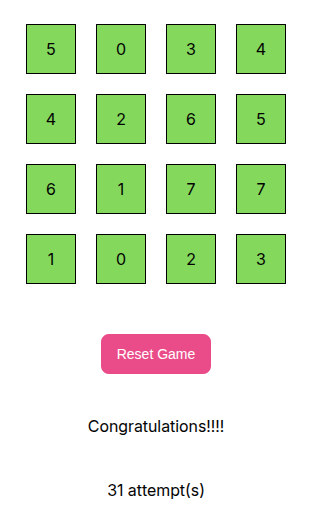
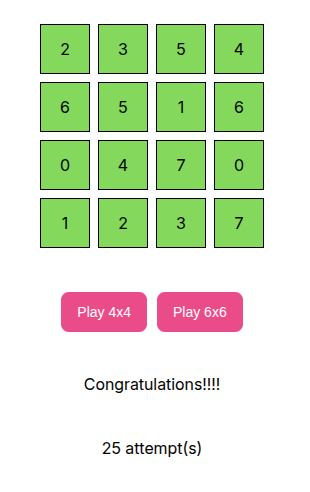
Update screenshots

diff --git a/README.md b/README.md
@@ -2,7 +2,11 @@
 
 ## Introduction
 
-A game of matching tiles. Find all the matches to win
+A game of matching tiles. Find all the matches to win.
+
+Features:
+- Choose from a 4x4 or a 6x6 board
+- Shows how many attempts you took
 
 ## Screenshots
 
